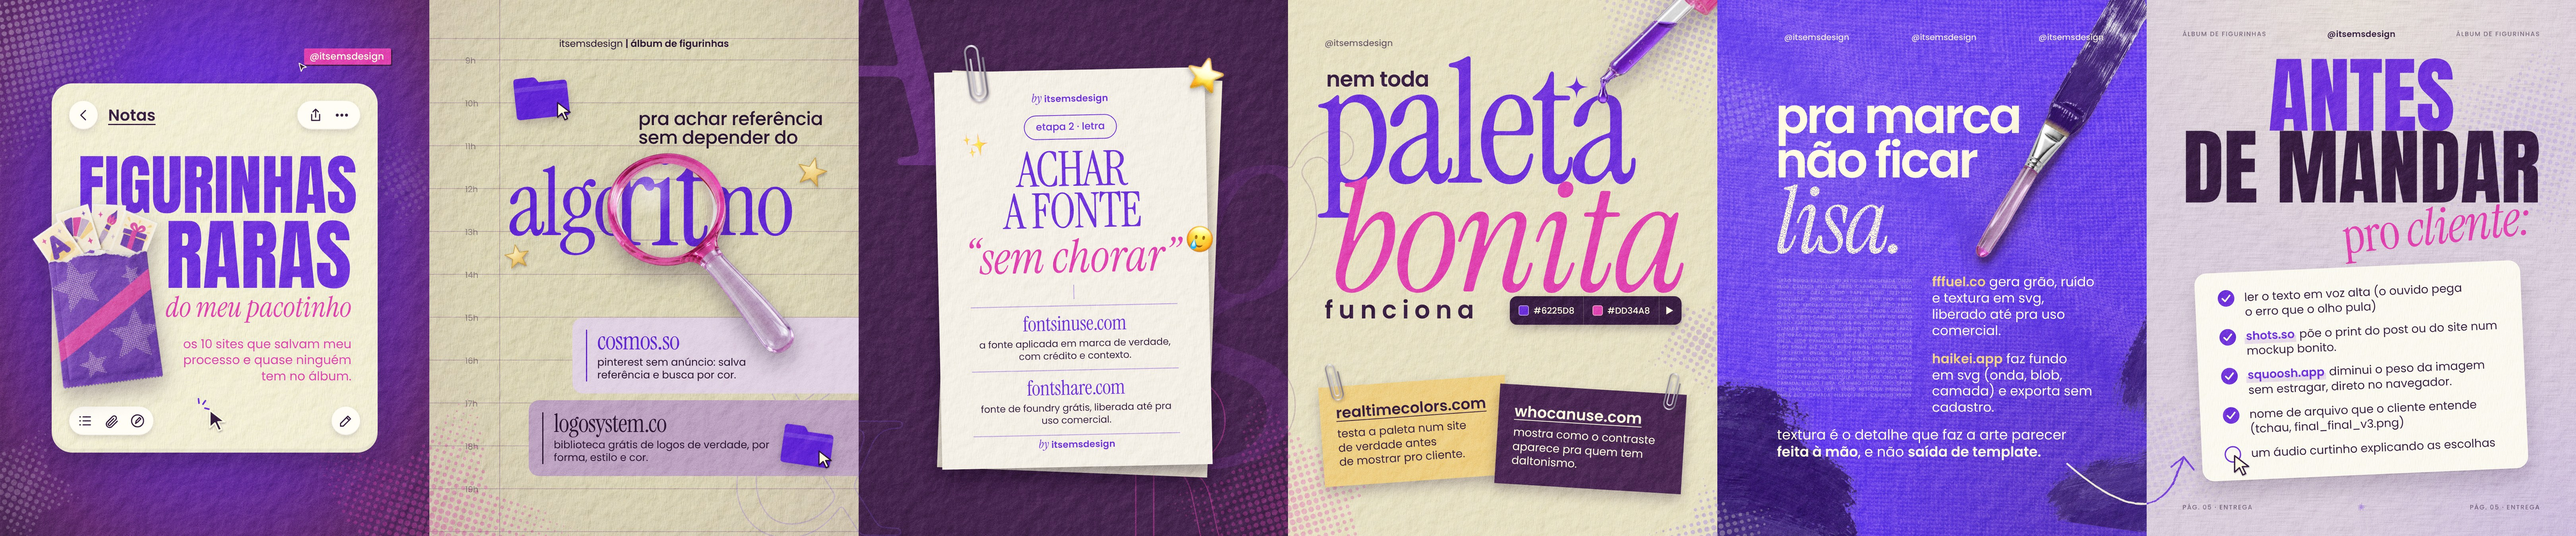
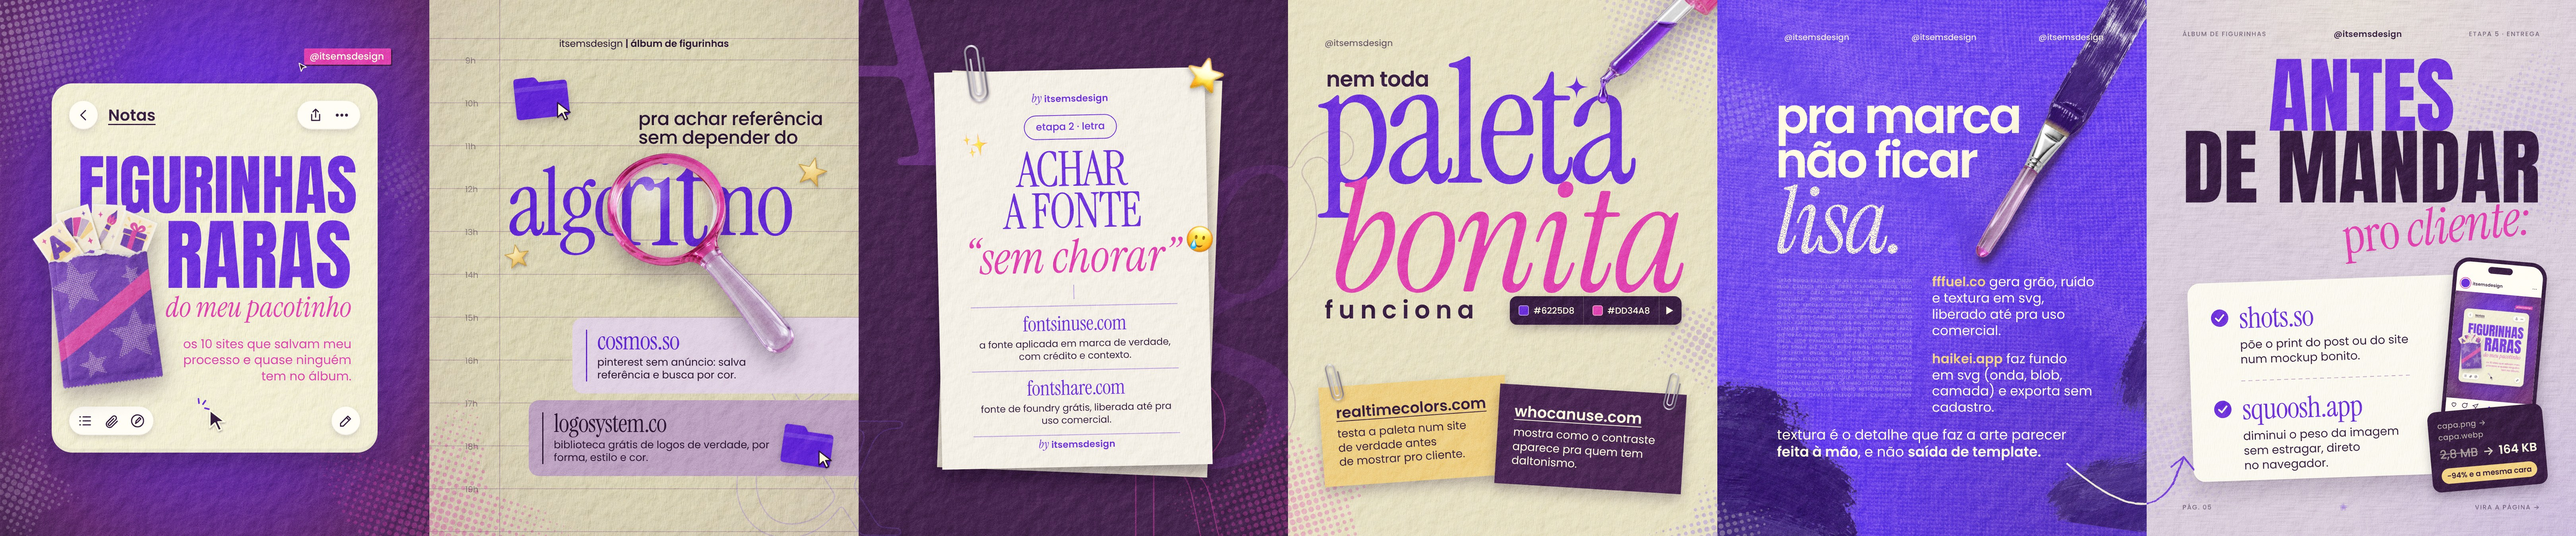
EMS figurinhas raras v4: página 6 refeita, só os dois sites com o desenho do que cada um faz
Claude-Session: https://claude.ai/code/session_01CmCiKB9wFc4qQovptupnZT

Changed region(s): [[0.8417, 0.4667, 0.9975, 0.9333], [0.904, 0.0622, 0.9352, 0.0933]]

diff --git a/Emi/ems-album-figurinhas/projeto/carrossel.html b/Emi/ems-album-figurinhas/projeto/carrossel.html
@@ -242,31 +242,49 @@ const PINC = 'filter:brightness(.46) saturate(1.3) contrast(1.05)';
       <div class="abs" style="inset:0;background:radial-gradient(120% 90% at 20% 30%, rgba(255,251,222,.10), transparent 60%), radial-gradient(90% 80% at 90% 100%, rgba(42,20,51,.28), transparent 70%)"></div>`, 'grao-forte');
 })();
 
-/* ================= 6 · entrega — ref 2 da LilyConts, lâmina 9 (título gigante em caixa alta em duas cores + cartão de checklist
-   inclinado por cima do pé do título; cabeçalho e rodapé repetidos). Sem objeto 3D: só tipo, cartão, ícone e o mousezinho ================= */
+/* ================= 6 · entrega — ref 2 da LilyConts, lâmina 9 (título gigante em caixa alta em duas cores + cartão inclinado
+   por cima do pé do título; cabeçalho e rodapé repetidos). v2: só os dois sites no cartão, cada um com o desenho do que ele faz
+   (celular com a capa deste carrossel = mockup; etiqueta de arquivo 2,8 MB → 164 KB = imagem leve). Sem objeto 3D ================= */
 (() => {
-  const p = A.paginas[4];
-  const check = (feito) => feito
-    ? `<svg viewBox="0 0 40 40" style="flex:none;width:44px;height:44px;margin-top:-3px"><circle cx="20" cy="20" r="19" fill="${css('violeta')}"/><path d="M11.5 20.5 l6 6 l11-13" fill="none" stroke="${css('ivory')}" stroke-width="3.6" stroke-linecap="round" stroke-linejoin="round"/></svg>`
-    : `<svg viewBox="0 0 40 40" style="flex:none;width:44px;height:44px;margin-top:-3px"><circle cx="20" cy="20" r="17.5" fill="none" stroke="${css('violeta')}" stroke-width="3"/></svg>`;
-  const itens = p.lista.map((t, i) => {
-    const feito = i < p.lista.length - 1;
-    const txt = t.startsWith('SITE:') ? (() => { const s = p.sites[+t.slice(5)];
-      return `<b style="font-weight:600;color:var(--violeta);background:linear-gradient(transparent 58%, var(--lavanda-2) 58%);padding:0 4px;margin-left:-4px">${s.nome}</b> ${s.pra}`; })() : t;
-    return `<div ${feito ? '' : 'id="ultimo"'} style="display:flex;gap:24px;align-items:flex-start;margin-bottom:${i < p.lista.length - 1 ? 24 : 0}px">${check(feito)}<div>${txt}</div></div>`;
-  }).join('');
+  const p = A.paginas[4], [s1, s2] = p.sites;
+  const check = `<svg viewBox="0 0 40 40" style="flex:none;width:46px;height:46px;margin-top:12px"><circle cx="20" cy="20" r="19" fill="${css('violeta')}"/><path d="M11.5 20.5 l6 6 l11-13" fill="none" stroke="${css('ivory')}" stroke-width="3.6" stroke-linecap="round" stroke-linejoin="round"/></svg>`;
+  const item = (s) => `<div style="display:flex;gap:26px;align-items:flex-start">${check}<div style="width:430px">
+      <div style="font-family:var(--serif);font-size:74px;line-height:1;letter-spacing:-.02em;color:var(--violeta)">${s.nome}</div>
+      <div style="font-family:var(--sans);font-size:29px;line-height:1.28;color:var(--tinta);margin-top:12px">${s.pra}</div></div></div>`;
+  /* celular flat com a capa deste carrossel dentro (mockup) */
+  const celular = `<div class="abs" style="left:646px;top:-34px;width:236px;height:470px;border-radius:40px;background:var(--tinta);padding:10px;transform:rotate(7deg);box-shadow:0 22px 34px rgba(42,20,51,.3)">
+      <div style="position:relative;width:100%;height:100%;border-radius:31px;overflow:hidden;background:#fffdf3">
+        <div class="abs" style="left:50%;top:9px;width:62px;height:17px;margin-left:-31px;border-radius:9px;background:var(--tinta)"></div>
+        <div class="abs" style="left:12px;right:12px;top:44px;display:flex;align-items:center;gap:7px;font-family:var(--sans);font-weight:600;font-size:11px;color:var(--tinta)">
+          <i style="width:22px;height:22px;border-radius:50%;background:var(--violeta);box-shadow:0 0 0 2px #fffdf3, 0 0 0 3.5px var(--pink)"></i>itsemsdesign<span style="margin-left:auto;letter-spacing:1px">···</span></div>
+        <img class="abs" src="recortes/capa-mini.jpg" style="left:0;top:76px;width:216px;height:270px;object-fit:cover">
+        <div class="abs" style="left:12px;right:12px;top:354px;display:flex;align-items:center;gap:10px">
+          <svg viewBox="0 0 24 24" style="width:17px" fill="none" stroke="${css('tinta')}" stroke-width="2"><path d="M12 20s-7-4.4-7-10a4 4 0 0 1 7-2.6A4 4 0 0 1 19 10c0 5.6-7 10-7 10z"/></svg>
+          <svg viewBox="0 0 24 24" style="width:17px" fill="none" stroke="${css('tinta')}" stroke-width="2"><path d="M20 12a8 8 0 1 1-3-6.2L21 4l-1 4.2A8 8 0 0 1 20 12z"/></svg>
+          <svg viewBox="0 0 24 24" style="width:17px" fill="none" stroke="${css('tinta')}" stroke-width="2"><path d="M21 3 3 10l7 3 3 7z"/></svg>
+          <span style="margin:0 auto 0 14px;display:flex;gap:4px">${[1, 0, 0, 0, 0, 0, 0].map((a) => `<i style="width:5px;height:5px;border-radius:50%;background:${a ? css('violeta') : 'rgba(42,20,51,.25)'}"></i>`).join('')}</span></div>
+        <div class="abs" style="left:12px;top:384px;width:150px;height:7px;border-radius:4px;background:rgba(42,20,51,.16)"></div>
+        <div class="abs" style="left:12px;top:398px;width:110px;height:7px;border-radius:4px;background:rgba(42,20,51,.12)"></div>
+      </div></div>`;
+  /* etiqueta do arquivo antes e depois (imagem leve). Números reais: lamina-01.png 2,77 MB → WebP q75 164 KB (−94%) */
+  const arquivo = `<div class="abs" style="left:596px;top:338px;width:290px;padding:22px 24px 20px;border-radius:22px;background:var(--tinta);color:var(--ivory);font-family:var(--sans);transform:rotate(-3deg);box-shadow:0 16px 26px rgba(42,20,51,.28)">
+      <div style="font-size:19px;letter-spacing:.04em;opacity:.7">capa.png → capa.webp</div>
+      <div style="display:flex;align-items:baseline;gap:12px;margin-top:6px;font-weight:600;font-size:30px;white-space:nowrap"><s style="opacity:.55;font-weight:500;text-decoration-thickness:2px">2,8 MB</s><span style="opacity:.8">→</span>164 KB</div>
+      <div style="display:inline-block;margin-top:12px;padding:5px 14px;border-radius:999px;background:var(--manteiga);color:var(--tinta);font-weight:600;font-size:19px">−94% e a mesma cara</div></div>`;
   const rot = (txt) => `<span>${txt}</span>`;
   const linha = (y, a, b, c) => `<div class="abs" style="left:90px;right:90px;top:${y}px;display:flex;justify-content:space-between;align-items:center;font-family:var(--sans);font-weight:500;font-size:16px;letter-spacing:.12em;text-transform:uppercase;color:rgba(42,20,51,.62)">${rot(a)}${b}${rot(c)}</div>`;
   lamina(5, `
     <img class="abs" src="${estrelaReticula(620, css('violeta-2'))}" style="left:640px;top:40px;width:620px;opacity:.16;transform:rotate(14deg)">
     <img class="abs" src="${estrelaReticula(520, css('violeta-2'))}" style="left:-230px;top:880px;width:520px;opacity:.1;transform:rotate(-20deg)">
-    ${linha(70, 'álbum de figurinhas', '<b style="font-weight:600;letter-spacing:.02em;text-transform:none;font-size:21px;color:var(--tinta)">@itsemsdesign</b>', 'álbum de figurinhas')}
+    ${linha(70, 'álbum de figurinhas', '<b style="font-weight:600;letter-spacing:.02em;text-transform:none;font-size:21px;color:var(--tinta)">@itsemsdesign</b>', 'etapa 5 · entrega')}
     <div class="abs" id="tit6" style="left:0;width:1080px;top:150px;text-align:center;font-family:Anton, var(--sans);font-size:262px;line-height:.86;letter-spacing:-.005em;color:var(--tinta);white-space:nowrap" data-sem-cola><span style="color:var(--violeta)">ANTES</span> DE<br>MANDAR</div>
     <div class="abs" id="pro6" style="left:600px;top:470px;font-family:var(--serif);font-size:128px;line-height:1;letter-spacing:-.02em;color:var(--pink);transform:rotate(-6deg);white-space:nowrap">${p.pro}</div>
-    <div class="abs" id="cartao6" style="left:130px;top:672px;width:820px;padding:46px 56px 44px;border-radius:30px;background:#fffdf3;transform:rotate(-2.5deg);box-shadow:0 30px 50px rgba(42,20,51,.2), 0 3px 0 rgba(42,20,51,.06);font-family:var(--sans);font-size:29px;line-height:1.28;color:var(--tinta)">
+    <div class="abs" id="cartao6" style="left:110px;top:700px;width:860px;height:500px;padding:54px 56px;border-radius:30px;background:#fffdf3;transform:rotate(-2deg);box-shadow:0 30px 50px rgba(42,20,51,.2), 0 3px 0 rgba(42,20,51,.06)">
       <div class="abs" style="inset:0;border-radius:30px;background-image:var(--tx-fibras);background-size:440px;mix-blend-mode:multiply;opacity:.22"></div>
-      <div style="position:relative">${itens}</div></div>
-    ${linha(1262, 'pág. 05 · entrega', `<img src="${estrelaReticula(60, css('violeta'), 7)}" style="width:30px;opacity:.8">`, 'pág. 05 · entrega')}
+      <div style="position:relative">${item(s1)}<div style="height:2px;margin:34px 0 34px 72px;width:430px;background:repeating-linear-gradient(90deg,var(--lavanda) 0 10px,transparent 10px 18px)"></div>${item(s2)}</div>
+      ${celular}${arquivo}
+    </div>
+    ${linha(1262, 'pág. 05', `<img src="${estrelaReticula(60, css('violeta'), 7)}" style="width:30px;opacity:.8">`, 'vira a página →')}
   `, `<div class="abs" style="inset:0;background:var(--lavanda-2)"></div>
       <div class="abs" style="inset:0;background:radial-gradient(90% 70% at 50% 0%, rgba(255,251,222,.55), transparent 70%), radial-gradient(80% 60% at 100% 100%, rgba(123,77,242,.14), transparent 70%)"></div>
       <div class="abs" style="inset:0;background-image:var(--tx-papel);background-size:520px;mix-blend-mode:multiply;opacity:.3"></div>
@@ -341,9 +359,6 @@ document.fonts.ready.then(() => {
     const l5 = t6.closest('.lamina').getBoundingClientRect(), r = t6.getBoundingClientRect(), pr = document.getElementById('pro6');
     pr.style.left = (r.right - l5.left - pr.getBoundingClientRect().width - 6) + 'px';
     pr.style.top = (r.bottom - l5.top - 4) + 'px';
-    const ul = document.getElementById('ultimo');
-    if (ul) { const q = ul.firstElementChild.getBoundingClientRect();
-      t6.closest('.lamina').insertAdjacentHTML('beforeend', cursor(q.left - l5.left + 20, q.top - l5.top + 22, 58)); }
   }
   const lam = document.getElementById('l1');
   if (a && lam) {

diff --git a/Emi/ems-album-figurinhas/projeto/textos.js b/Emi/ems-album-figurinhas/projeto/textos.js
@@ -31,17 +31,10 @@ window.ALBUM = {
       ],
       fecho: 'textura é o detalhe que faz a arte parecer <b>feita à mão</b>, e não <b>saída de template.</b>',
       miudo: 'grão ruído papel linho retícula pincelada onda blob camada relevo fibra carimbo xerox riso spray giz' },
-    { etapa: 'pág. 05 · entrega', titulo: 'ANTES DE<br>MANDAR', pro: 'pro <i>cliente:</i>', objeto: 'checklist',
+    { etapa: 'pág. 05 · entrega', titulo: 'ANTES DE<br>MANDAR', pro: 'pro <i>cliente:</i>', objeto: 'celular e arquivo (flat)',
       sites: [
         { nome: 'shots.so', pra: 'põe o print do post ou do site num mockup bonito.' },
         { nome: 'squoosh.app', pra: 'diminui o peso da imagem sem estragar, direto no navegador.' },
-      ],
-      lista: [
-        'ler o texto em voz alta (o ouvido pega o erro que o olho pula)',
-        'SITE:0',
-        'SITE:1',
-        'nome de arquivo que o cliente entende (tchau, final_final_v3.png)',
-        'um áudio curtinho explicando as escolhas',
       ] },
   ],
   chamada: {
